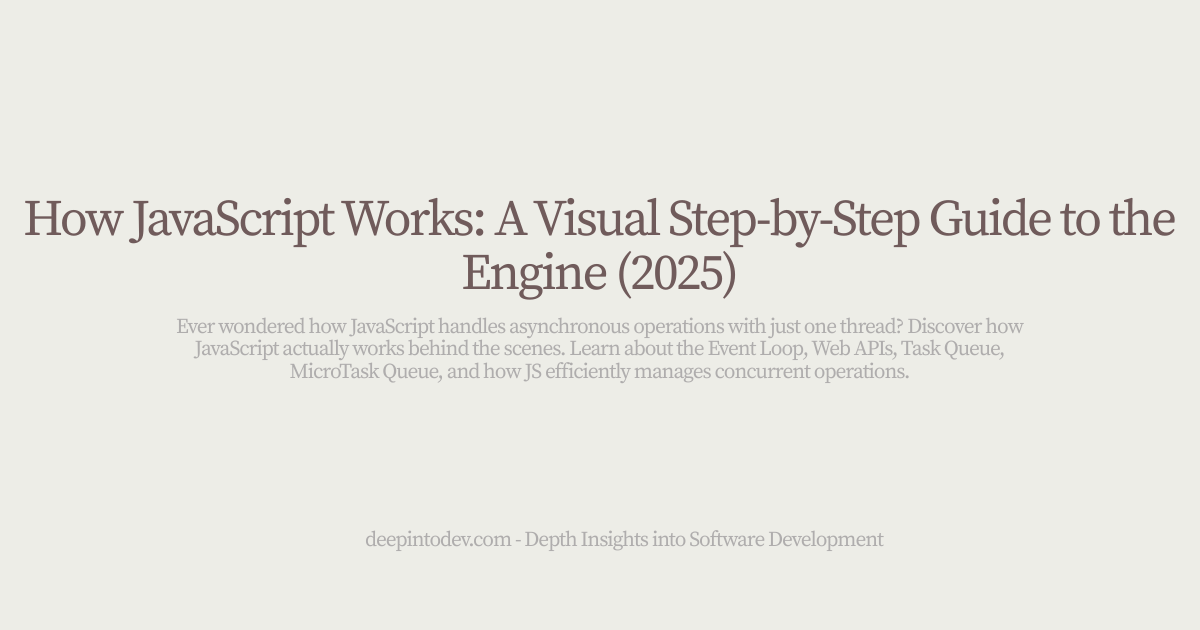
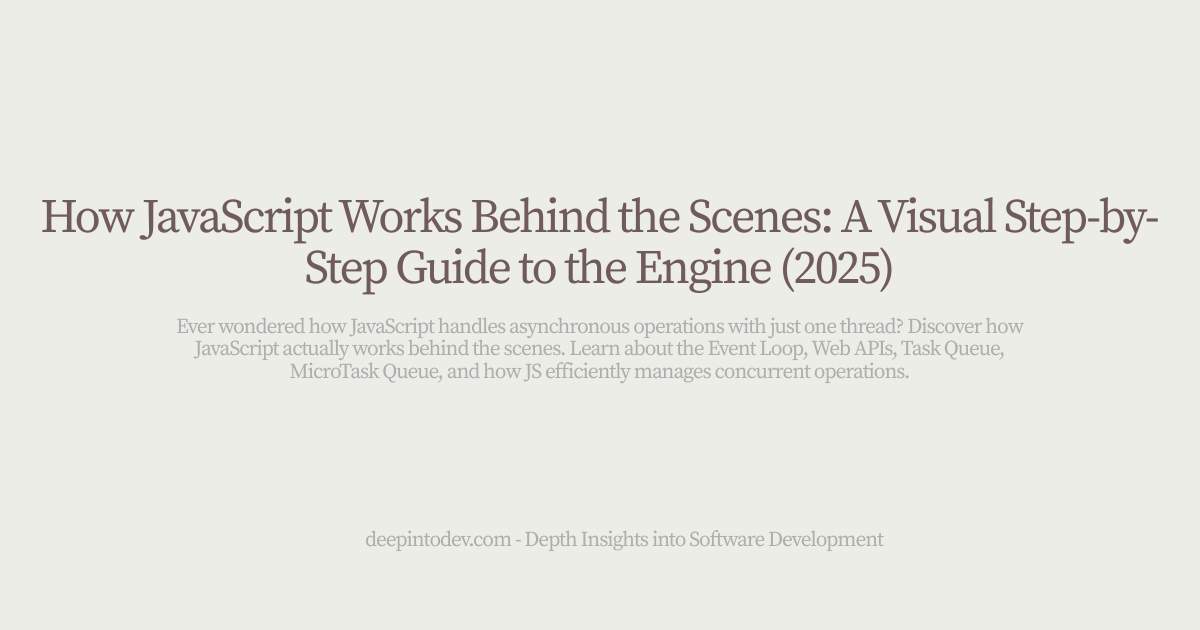
change title

Changed region(s): [[0.0, 0.3016, 0.9867, 0.4825]]

diff --git a/constants.js b/constants.js
@@ -38,7 +38,8 @@ export const blogPosts = [
   },
   {
     id: 5,
-    title: "How JavaScript Works Behind the Scenes",
+    title:
+      "How JavaScript Works Behind the Scenes: A Visual Step-by-Step Guide to the Engine (2025)",
     readTime: 14,
     slug: "how-javascript-works-behind-the-scenes",
     date: "April 14, 2025",
